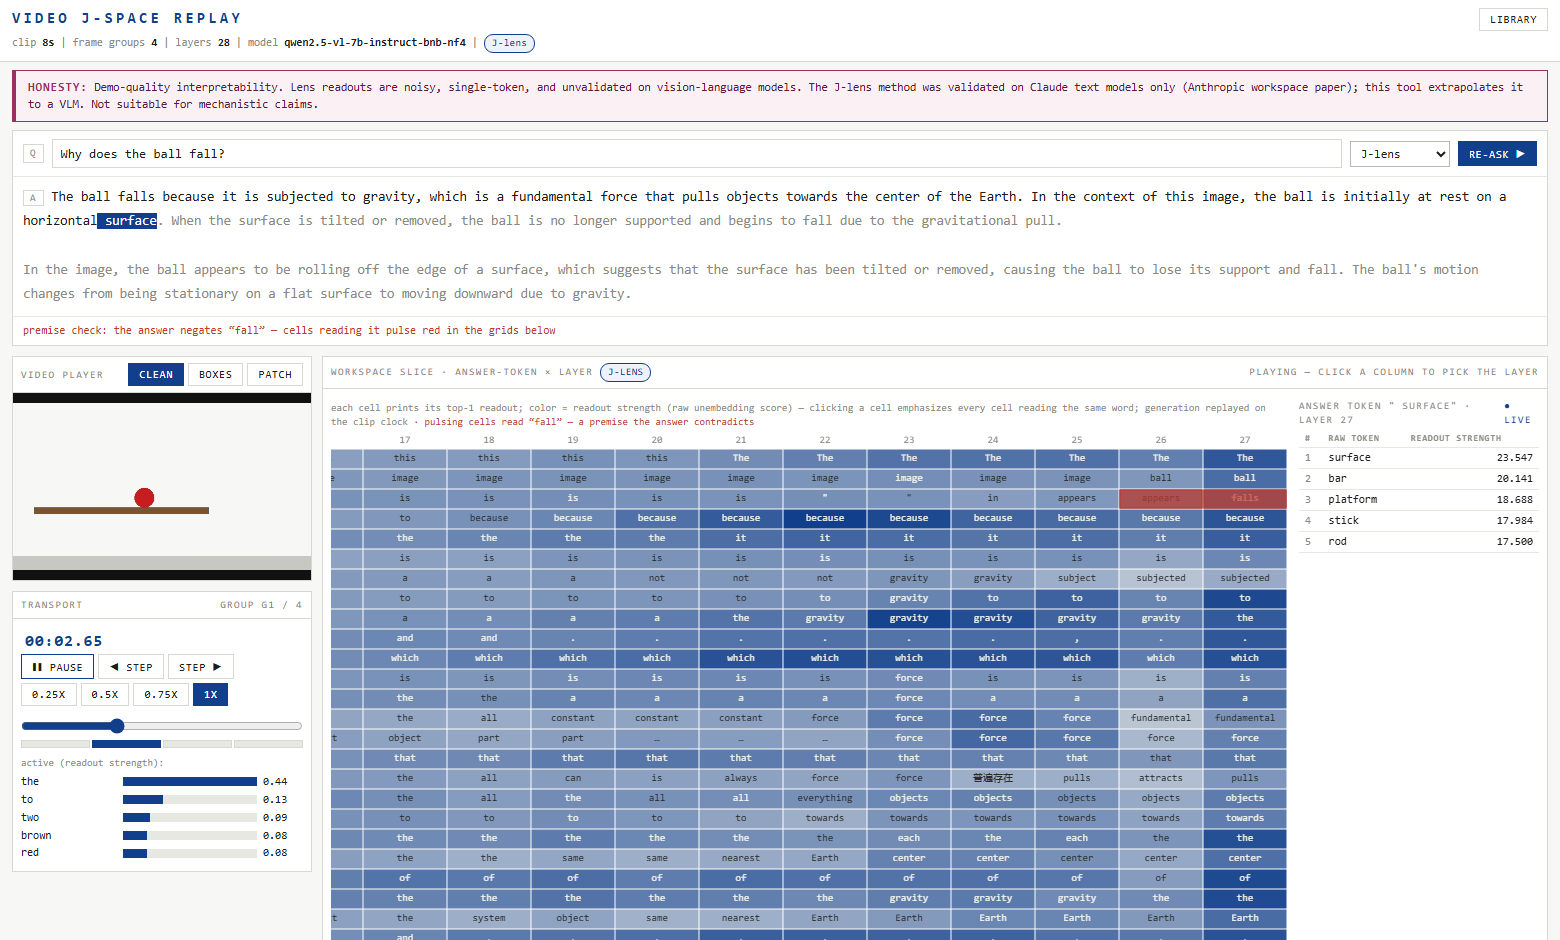
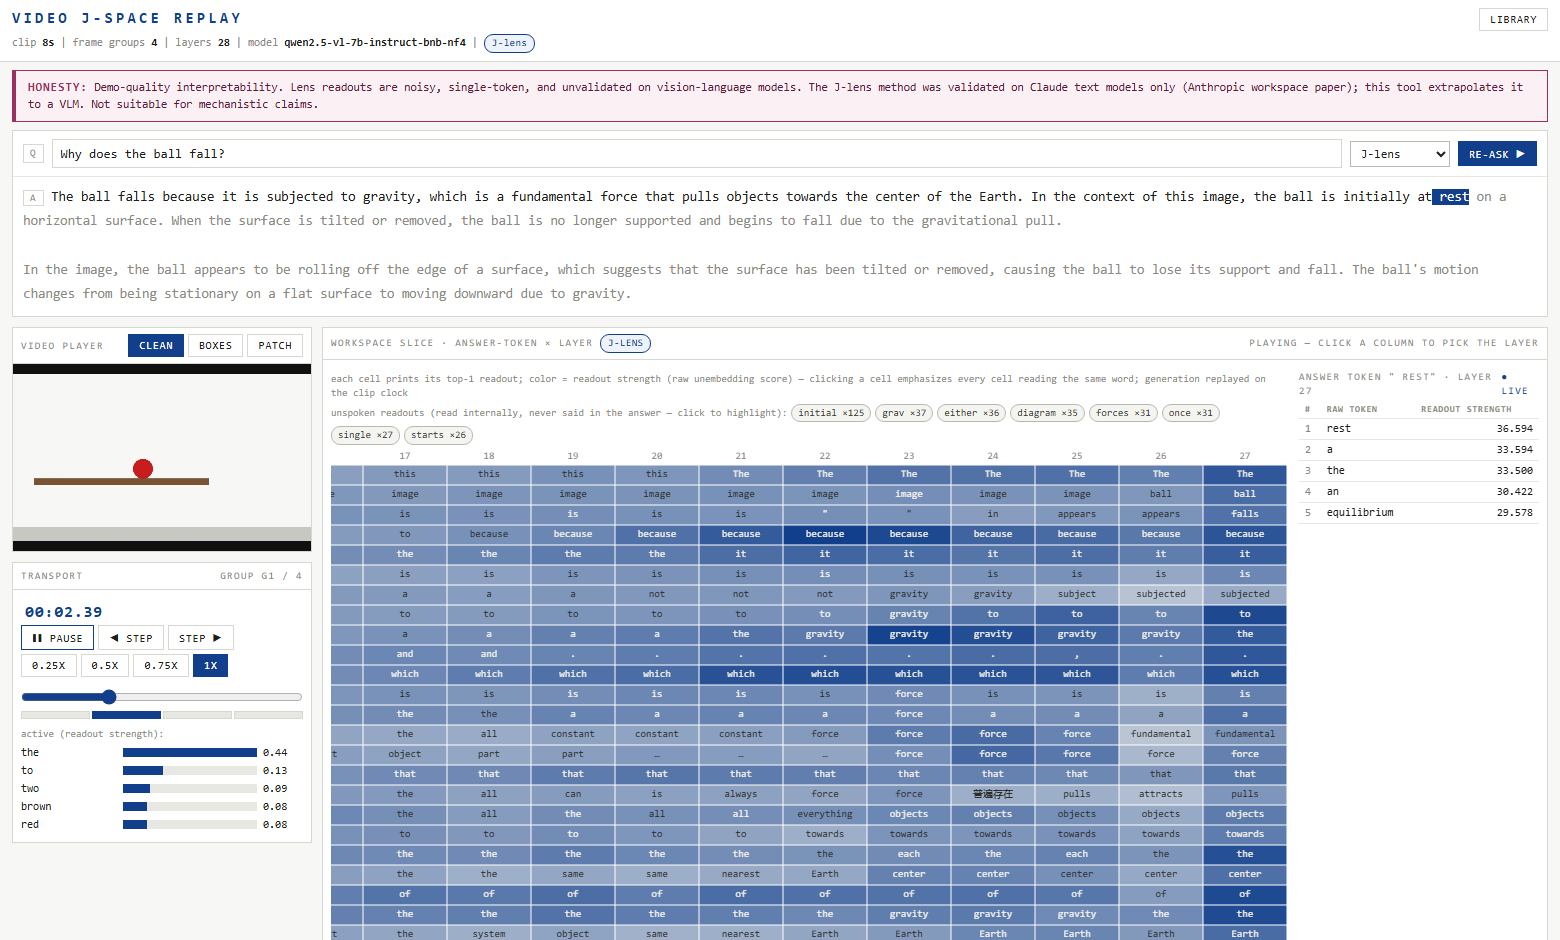
ui: a denial's reach stops at clause boundaries + fresh screenshot
The README screenshot exposed it: 'no longer supported and begins to fall'
flagged 'begin' as ruled out — the walk crossed the conjunction into an
affirmed clause, and the word regex dropped punctuation so windows could
cross sentences too. Punctuation now survives tokenization as boundary
markers and the walk breaks at connectives (and/but/which/because/...).
Screenshot retaken with the corrected check.

Changed region(s): [[0.0, 0.3394, 0.9846, 1.0], [0.0308, 0.216, 0.1231, 0.2468], [0.9231, 0.1851, 0.9538, 0.216]]

diff --git a/frontend/src/trace/terms.ts b/frontend/src/trace/terms.ts
@@ -80,14 +80,25 @@ const isTransparent = (w: string) =>
  * denies it (mentions outside negation reach outnumber those inside).
  * Purely mechanical string analysis of the answer text.
  */
+/** A negation's reach ends at a clause boundary: punctuation or one of
+ * these connectives ("no longer supported AND begins to fall" affirms
+ * "begins" — it must not inherit the denial). */
+const CLAUSE_BREAK = new Set([
+  "and", "but", "or", "so", "then", "while", "which", "that", "because",
+  "although", "though", "however",
+]);
+
 export function deniedTerms(answer: string, maxContent = 2, reach = 10): Set<string> {
-  const words = answer.toLowerCase().match(/[a-z][a-z'-]*/g) ?? [];
+  // keep punctuation as boundary markers so a denial cannot cross a clause
+  const words = answer.toLowerCase().match(/[a-z][a-z'-]*|[.,;:!?]/g) ?? [];
+  const isBoundary = (w: string) => !/^[a-z]/.test(w) || CLAUSE_BREAK.has(w);
   // positions of content words a negation reaches
   const negated = new Array<boolean>(words.length).fill(false);
   for (let i = 0; i < words.length; i++) {
     if (!NEGATIONS.has(words[i])) continue;
     let content = 0;
     for (let j = i + 1; j < words.length && j <= i + reach && content < maxContent; j++) {
+      if (isBoundary(words[j])) break;
       if (isTransparent(words[j])) continue;
       negated[j] = true;
       content += 1;
@@ -97,7 +108,7 @@ export function deniedTerms(answer: string, maxContent = 2, reach = 10): Set<str
   const affirmations = new Map<string, number>();
   for (let i = 0; i < words.length; i++) {
     const w = words[i];
-    if (isTransparent(w)) continue;
+    if (!/^[a-z]/.test(w) || isTransparent(w)) continue;
     const c = canonWord(w);
     const bucket = negated[i] ? denials : affirmations;
     bucket.set(c, (bucket.get(c) ?? 0) + 1);

diff --git a/frontend/src/trace/terms.test.ts b/frontend/src/trace/terms.test.ts
@@ -48,6 +48,14 @@ describe("contradiction tracking (adversarial signal)", () => {
     expect(t.has("umbrella")).toBe(true);
   });
 
+  it("a denial stops at a clause boundary", () => {
+    // real case from the README screenshot: "begins" is affirmed, not denied
+    const t = deniedTerms("The ball is no longer supported and begins to fall due to gravity.");
+    expect(t.has("support")).toBe(true);
+    expect(t.has("begin")).toBe(false);
+    expect(t.has("fall")).toBe(false);
+  });
+
   it("a word affirmed more often than denied is dropped", () => {
     const t = deniedTerms(
       "The ball does not fall at first. Later the ball falls off the edge and keeps falling.",
